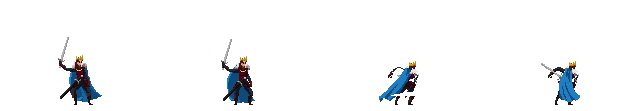
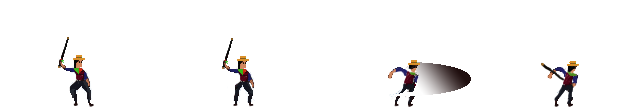
add wallpaper

diff --git a/index.js b/index.js
@@ -104,6 +104,11 @@ const player = new Player({
       frameRate: 2,
       frameBuffer: 3,
     },
+    Attack: {
+      imageSrc: './img/warrior/Attack1.png',
+      frameRate: 4,
+      frameBuffer: 4,
+    },
   },
 })
 
@@ -142,31 +147,26 @@ function animate() {
   c.scale(4, 4)
   c.translate(camera.position.x, camera.position.y)
   background.update()
-  // collisionBlocks.forEach((collisionBlock) => {
-  //   collisionBlock.update()
-  // })
-
-  // platformCollisionBlocks.forEach((block) => {
-  //   block.update()
-  // })
 
   player.checkForHorizontalCanvasCollision()
   player.update()
 
   player.velocity.x = 0
-  if (keys.d.pressed) {
-    player.switchSprite('Run')
-    player.velocity.x = 2
-    player.lastDirection = 'right'
-    player.shouldPanCameraToTheLeft({ canvas, camera })
-  } else if (keys.a.pressed) {
-    player.switchSprite('RunLeft')
-    player.velocity.x = -2
-    player.lastDirection = 'left'
-    player.shouldPanCameraToTheRight({ canvas, camera })
-  } else if (player.velocity.y === 0) {
-    if (player.lastDirection === 'right') player.switchSprite('Idle')
-    else player.switchSprite('IdleLeft')
+  if (!player.attacking) {
+    if (keys.d.pressed) {
+      player.switchSprite('Run')
+      player.velocity.x = 2
+      player.lastDirection = 'right'
+      player.shouldPanCameraToTheLeft({ canvas, camera })
+    } else if (keys.a.pressed) {
+      player.switchSprite('RunLeft')
+      player.velocity.x = -2
+      player.lastDirection = 'left'
+      player.shouldPanCameraToTheRight({ canvas, camera })
+    } else if (player.velocity.y === 0) {
+      if (player.lastDirection === 'right') player.switchSprite('Idle')
+      else player.switchSprite('IdleLeft')
+    }
   }
 
   if (player.velocity.y < 0) {
@@ -193,10 +193,12 @@ window.addEventListener('keydown', (event) => {
       keys.a.pressed = true
       break
     case 'w':
-      if (player.isOnGround) {
+      if (player.velocity.y === 0) { // Solo permitir saltar si el jugador está en el suelo
         player.velocity.y = -4
-        player.isOnGround = false
       }
+      break
+    case 'j':
+      player.switchSprite('Attack')
       break
   }
 })

diff --git a/js/classes/Player.js b/js/classes/Player.js
@@ -1,54 +1,35 @@
 class Player extends Sprite {
-  constructor({
-    position,
-    collisionBlocks,
-    platformCollisionBlocks,
-    imageSrc,
-    frameRate,
-    scale = 0.5,
-    animations,
-  }) {
+  constructor({ position, collisionBlocks, platformCollisionBlocks, imageSrc, frameRate, scale = 0.5, animations }) {
     super({ imageSrc, frameRate, scale })
     this.position = position
-    this.velocity = {
-      x: 0,
-      y: 1,
-    }
-
+    this.velocity = { x: 0, y: 1 }
     this.collisionBlocks = collisionBlocks
     this.platformCollisionBlocks = platformCollisionBlocks
-    this.hitbox = {
-      position: {
-        x: this.position.x,
-        y: this.position.y,
-      },
-      width: 10,
-      height: 10,
-    }
-
+    this.hitbox = { position: { x: this.position.x, y: this.position.y }, width: 10, height: 10 }
     this.animations = animations
     this.lastDirection = 'right'
-    this.isOnGround = false
+    this.attacking = false
 
     for (let key in this.animations) {
       const image = new Image()
       image.src = this.animations[key].imageSrc
-
       this.animations[key].image = image
+      image.onload = () => {
+        console.log(`${key} image loaded: ${image.src}`);
+      }
     }
 
-    this.camerabox = {
-      position: {
-        x: this.position.x,
-        y: this.position.y,
-      },
-      width: 200,
-      height: 80,
-    }
+    this.camerabox = { position: { x: this.position.x, y: this.position.y }, width: 200, height: 80 }
   }
 
   switchSprite(key) {
+    if (this.attacking && key !== 'Idle' && key !== 'IdleLeft') return
     if (this.image === this.animations[key].image || !this.loaded) return
+
+    if (key === 'Attack') {
+      this.attacking = true
+      setTimeout(() => { this.attacking = false }, this.animations[key].frameRate * this.animations[key].frameBuffer * 1000 / 60) // Ajusta según sea necesario
+    }
 
     this.currentFrame = 0
     this.image = this.animations[key].image
